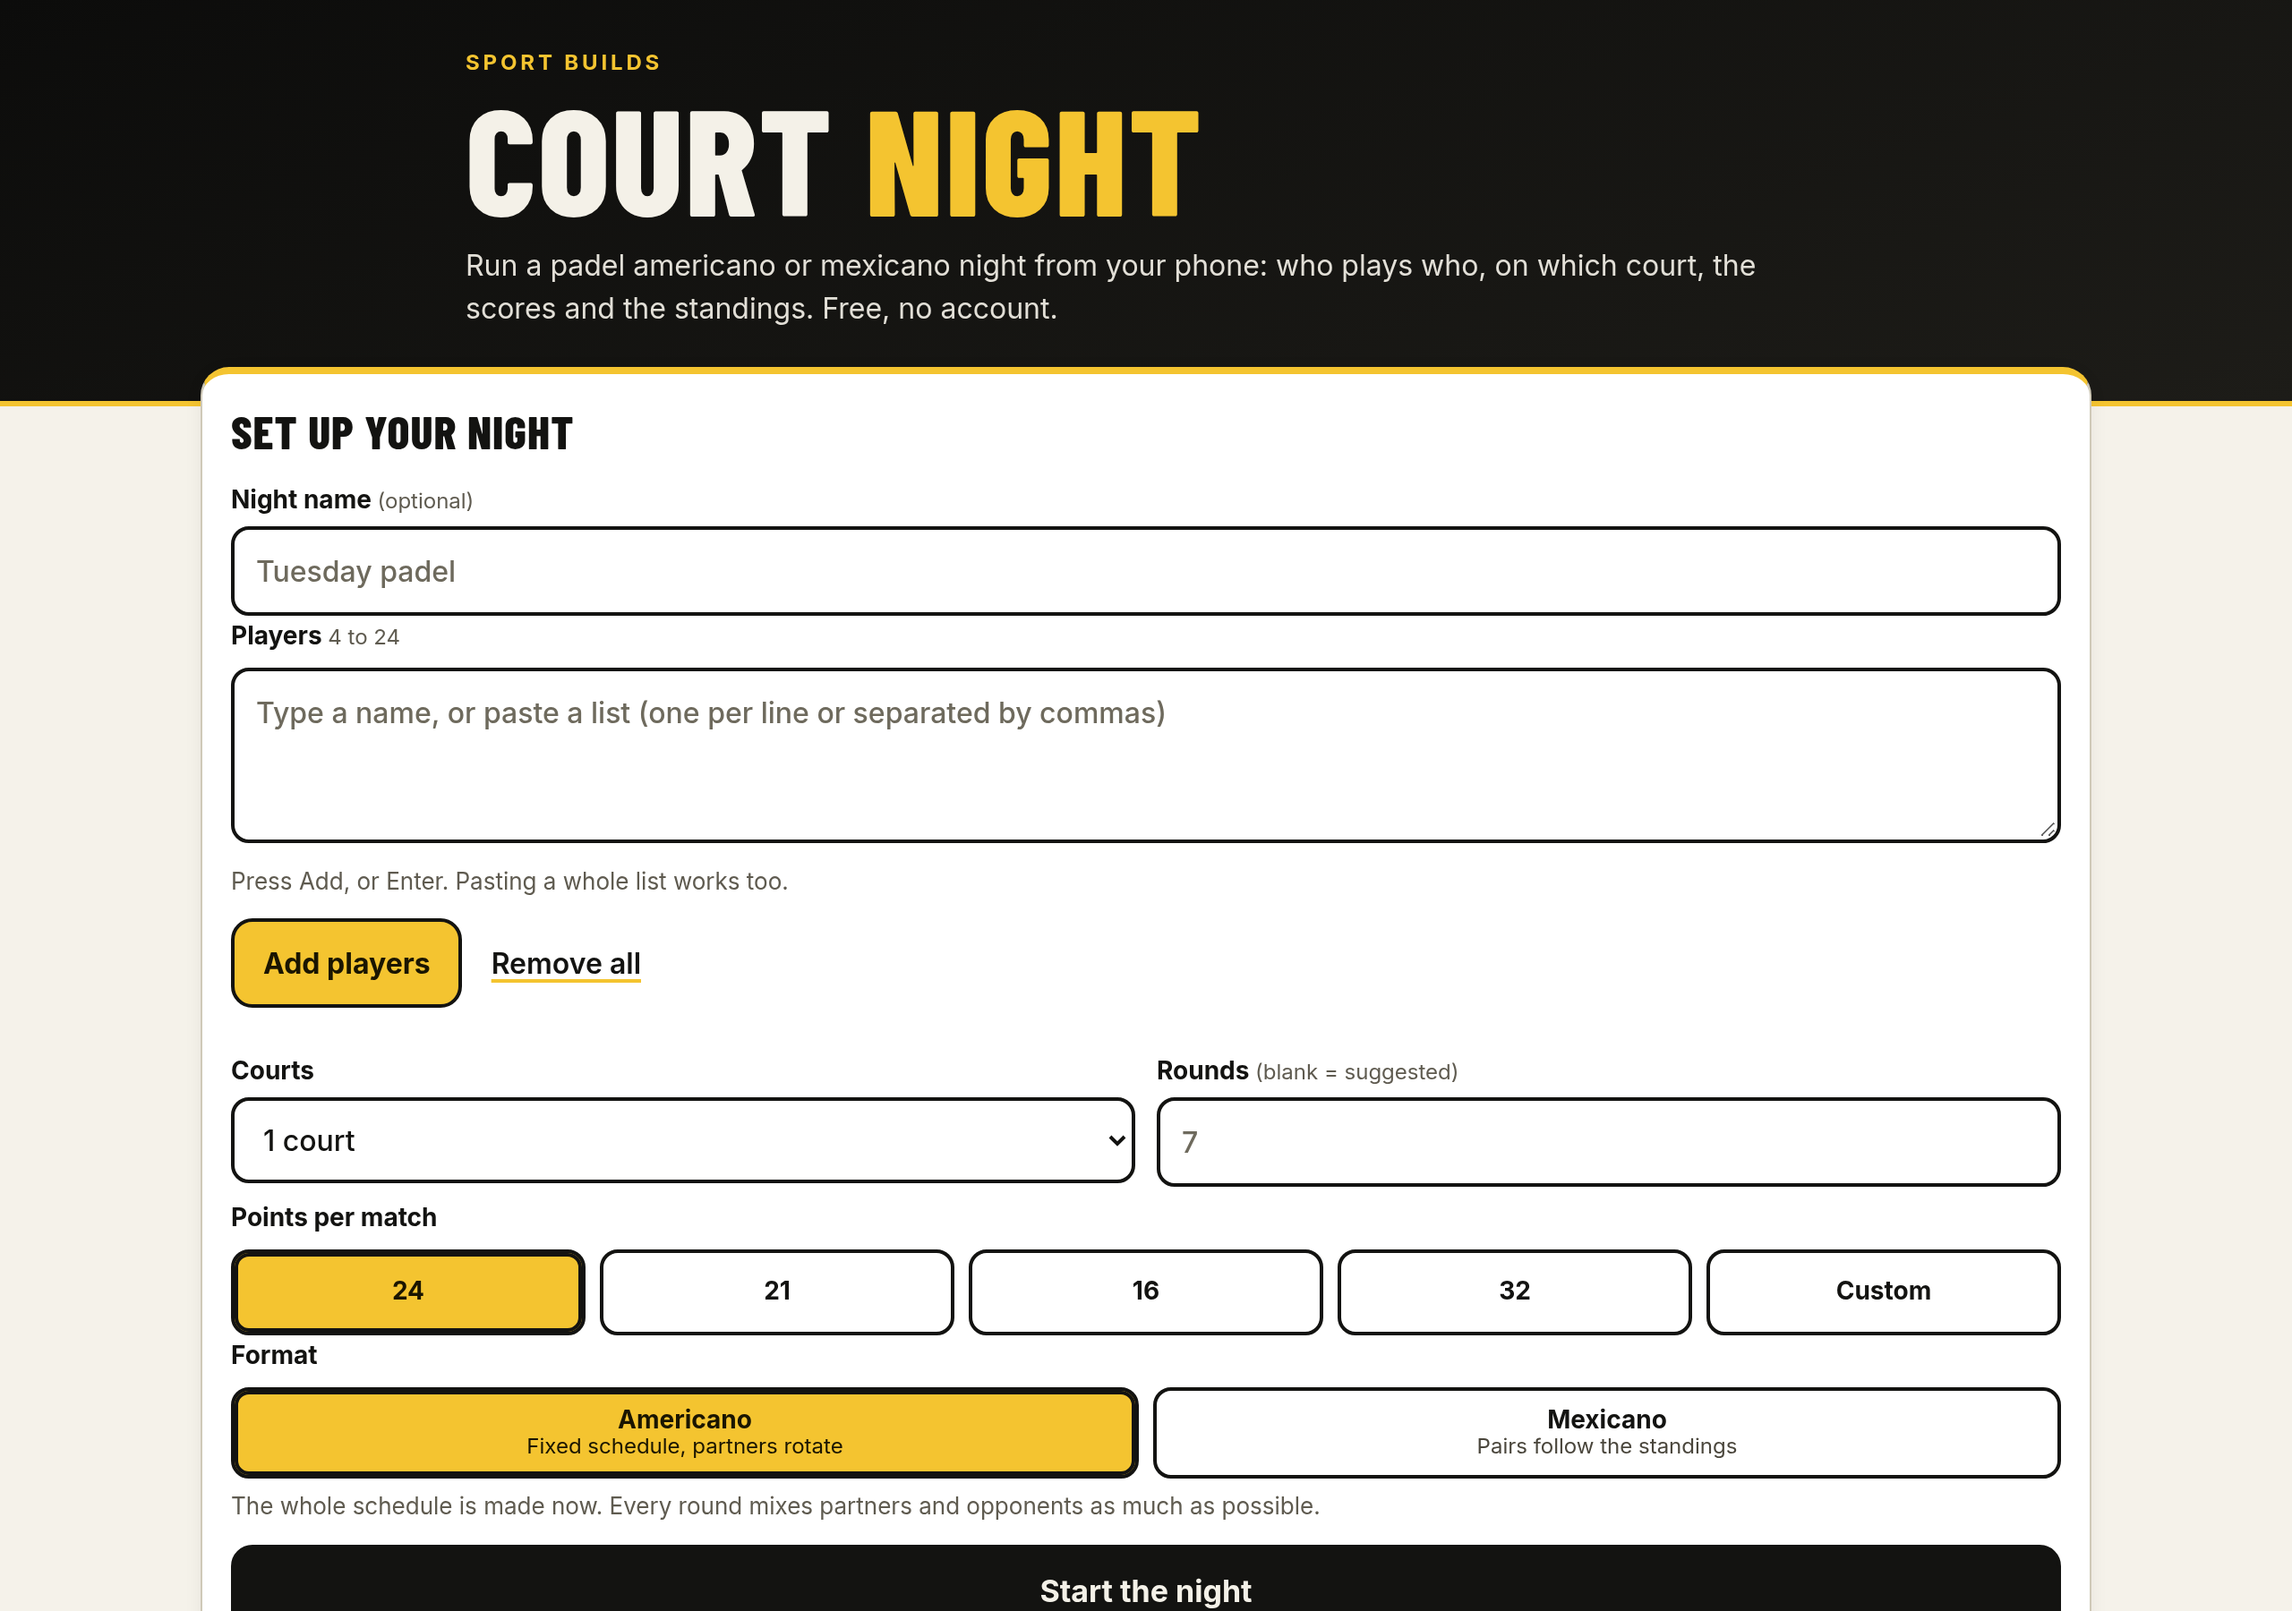
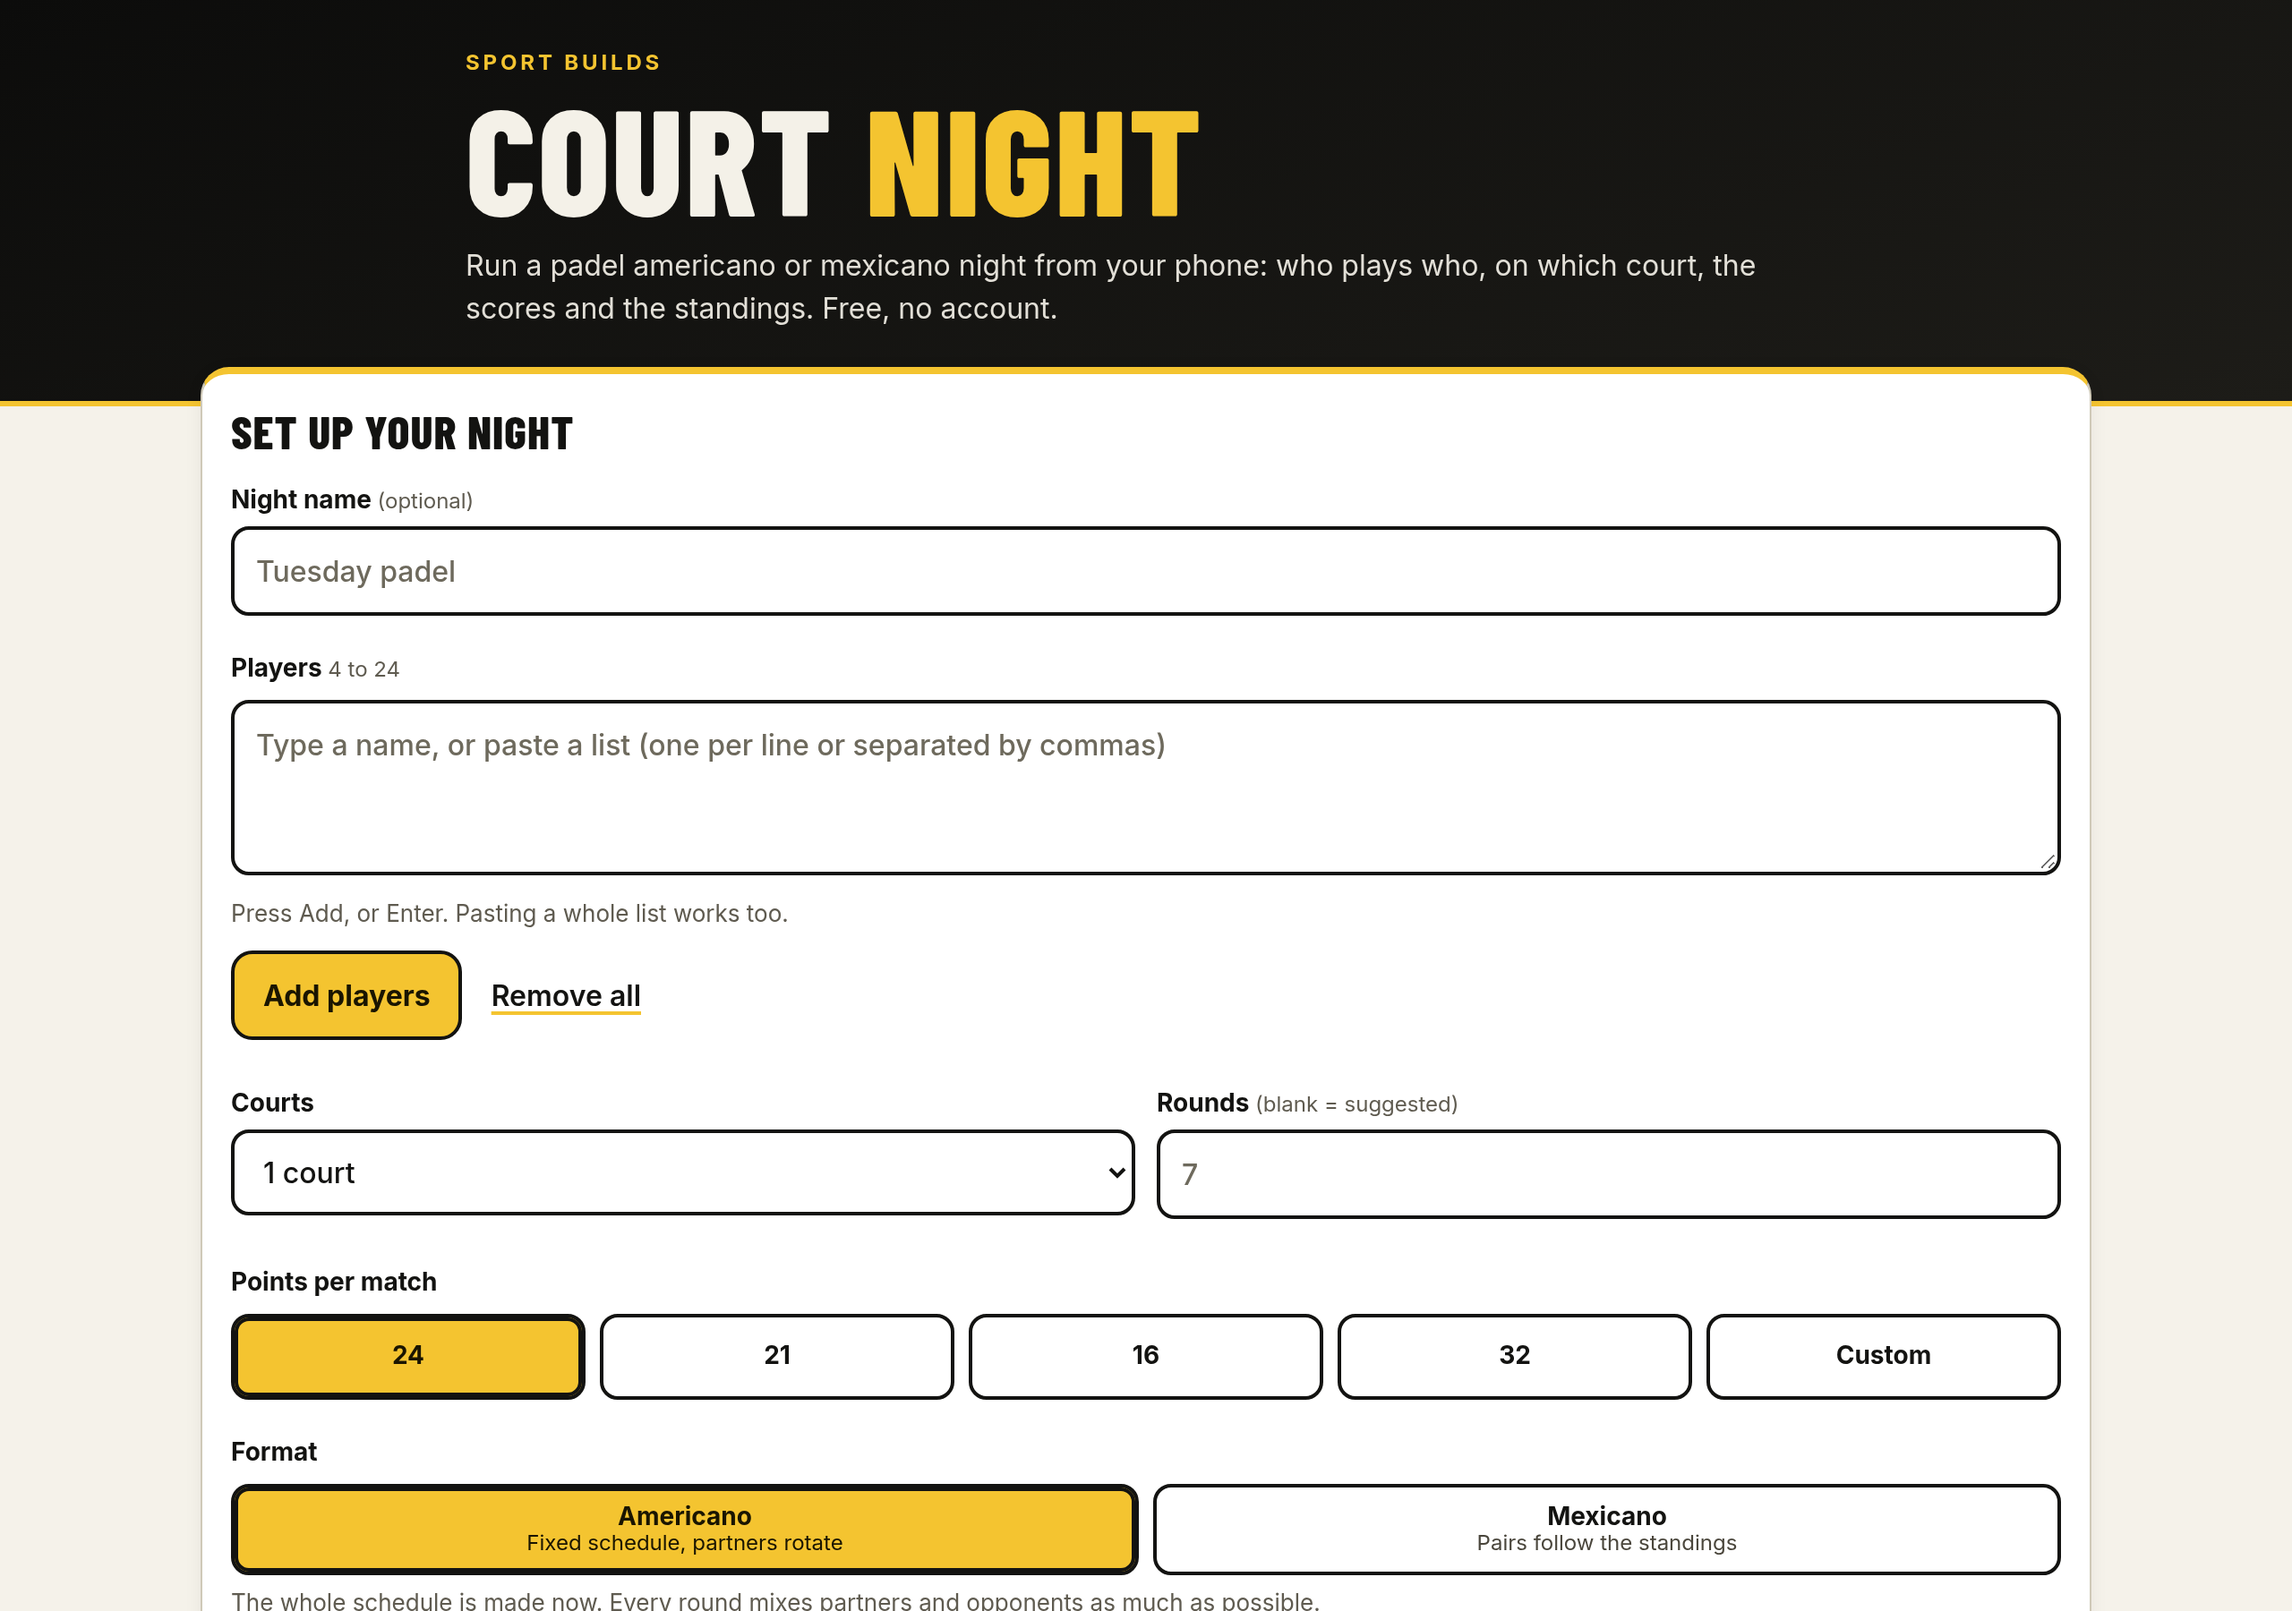
Build log and screenshots update

Changed region(s): [[0.0938, 0.5289, 0.9062, 1.0], [0.0938, 0.3733, 0.9062, 0.4667], [0.875, 0.6844, 0.9062, 0.7156]]

diff --git a/style.css b/style.css
@@ -41,9 +41,9 @@ a:focus-visible { outline: 3px solid var(--gold); outline-offset: 2px; border-ra
 @media (prefers-color-scheme: dark) { .card.inputs { border-color: #000; border-top-color: var(--gold); } }
 
 label, legend { display: block; font-weight: 700; font-size: 14px; margin: 14px 0 5px; padding: 0; }
-legend { margin: 18px 0 8px; }
+legend { margin: 0 0 8px; }
 label small, legend small { font-weight: 400; color: var(--muted); font-size: 12px; }
-fieldset { border: 0; padding: 0; margin: 0; min-width: 0; }
+fieldset { border: 0; padding: 0; margin: 18px 0 0; min-width: 0; }
 input, select, textarea { font: inherit; font-weight: 500; color: #131311; background: #fff; border: 2px solid #131311; border-radius: 10px; padding: 11px 12px; min-height: 48px; width: 100%; }
 textarea { resize: vertical; }
 input::placeholder, textarea::placeholder { color: #6e6a5d; opacity: 1; }

diff --git a/docs/BUILD_LOG.md b/docs/BUILD_LOG.md
@@ -12,3 +12,4 @@ Times are Europe/London (UTC+0 on 26 Oct 2026), taken with `date`. Issue 2 of Sp
 - **Step 4, GitHub repo, Cloudflare Pages deploy, custom domain: 19:05 to 19:07.** Public repo norris1976/court-night created and pushed (commit as Tim Norris). Pages project `court-night` created (direct upload, production branch main) and deployed with wrangler 4.86.0. On https://court-night.pages.dev: 200, strict CSP, nosniff, no-referrer, HSTS, `Cache-Control: ... no-transform`, no Set-Cookie, no Web Analytics beacon in the HTML, and the full browser check script passes against the live URL (no console messages, no requests to another origin).
   - What broke: the first run of the browser checks against the live URL, seconds after the deploy, failed once; the same run passed on the next try (it looked like the deployment settling). Not investigated further.
   - **Blocked: the DNS record.** The Pages custom domain `court.sportbuilds.co` was added through the API (status "pending"), but the Cloudflare token in the environment cannot see the sportbuilds.co zone (the zone list for it only contains another account's domain), so the proxied CNAME `court` -> `court-night.pages.dev` was not created. It needs to be added by hand in the dashboard (DNS > Records), or with a token that has Zone > DNS > Edit on sportbuilds.co. I did not try other credentials.
+- **Step 5, site preview branch (issue-2-preview): 19:07 to 19:09.** In sportbuilds-site: branch `issue-2-preview` with Court Night added to `data/builds.json` (so it shows in the archive and as the latest build on the home page, tool link opens in a new tab), three webp images made from the example night, and an extra bullet plus a changed sentence on the privacy page (Court Night saves the current night in local storage on the device; the planner line stays as it was because it is about the planner). Site tests: 18 pass. Deployed only with `--branch issue-2-preview` (preview URL https://issue-2-preview.sportbuilds-site.pages.dev). Production sportbuilds.co checked afterwards: 200, no mention of Court Night, privacy page unchanged. Nothing merged to main; the site repo is back on main with a clean tree.
